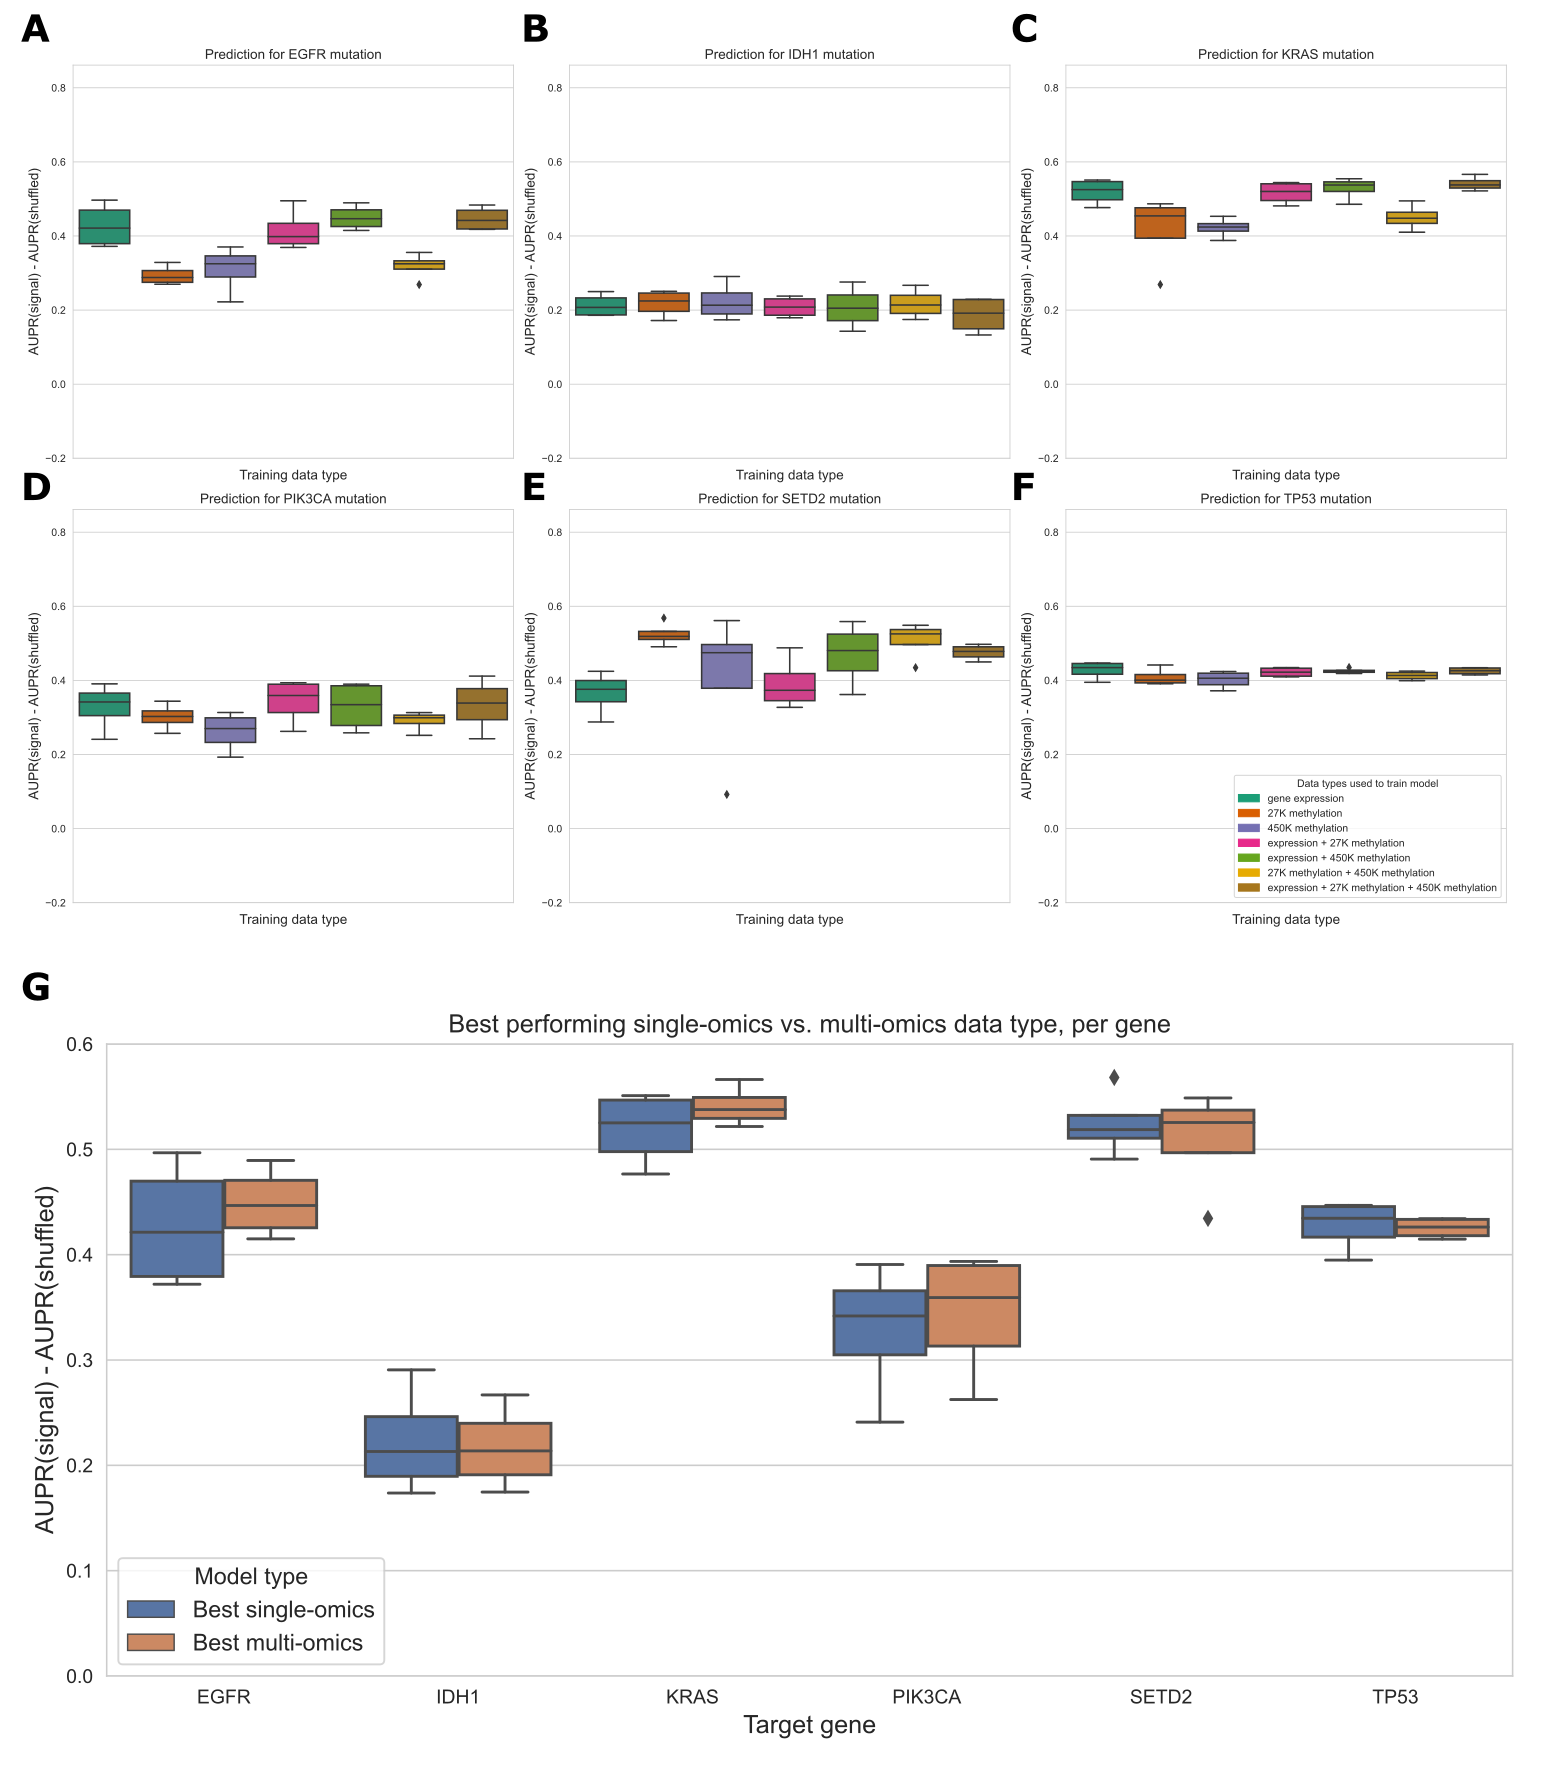
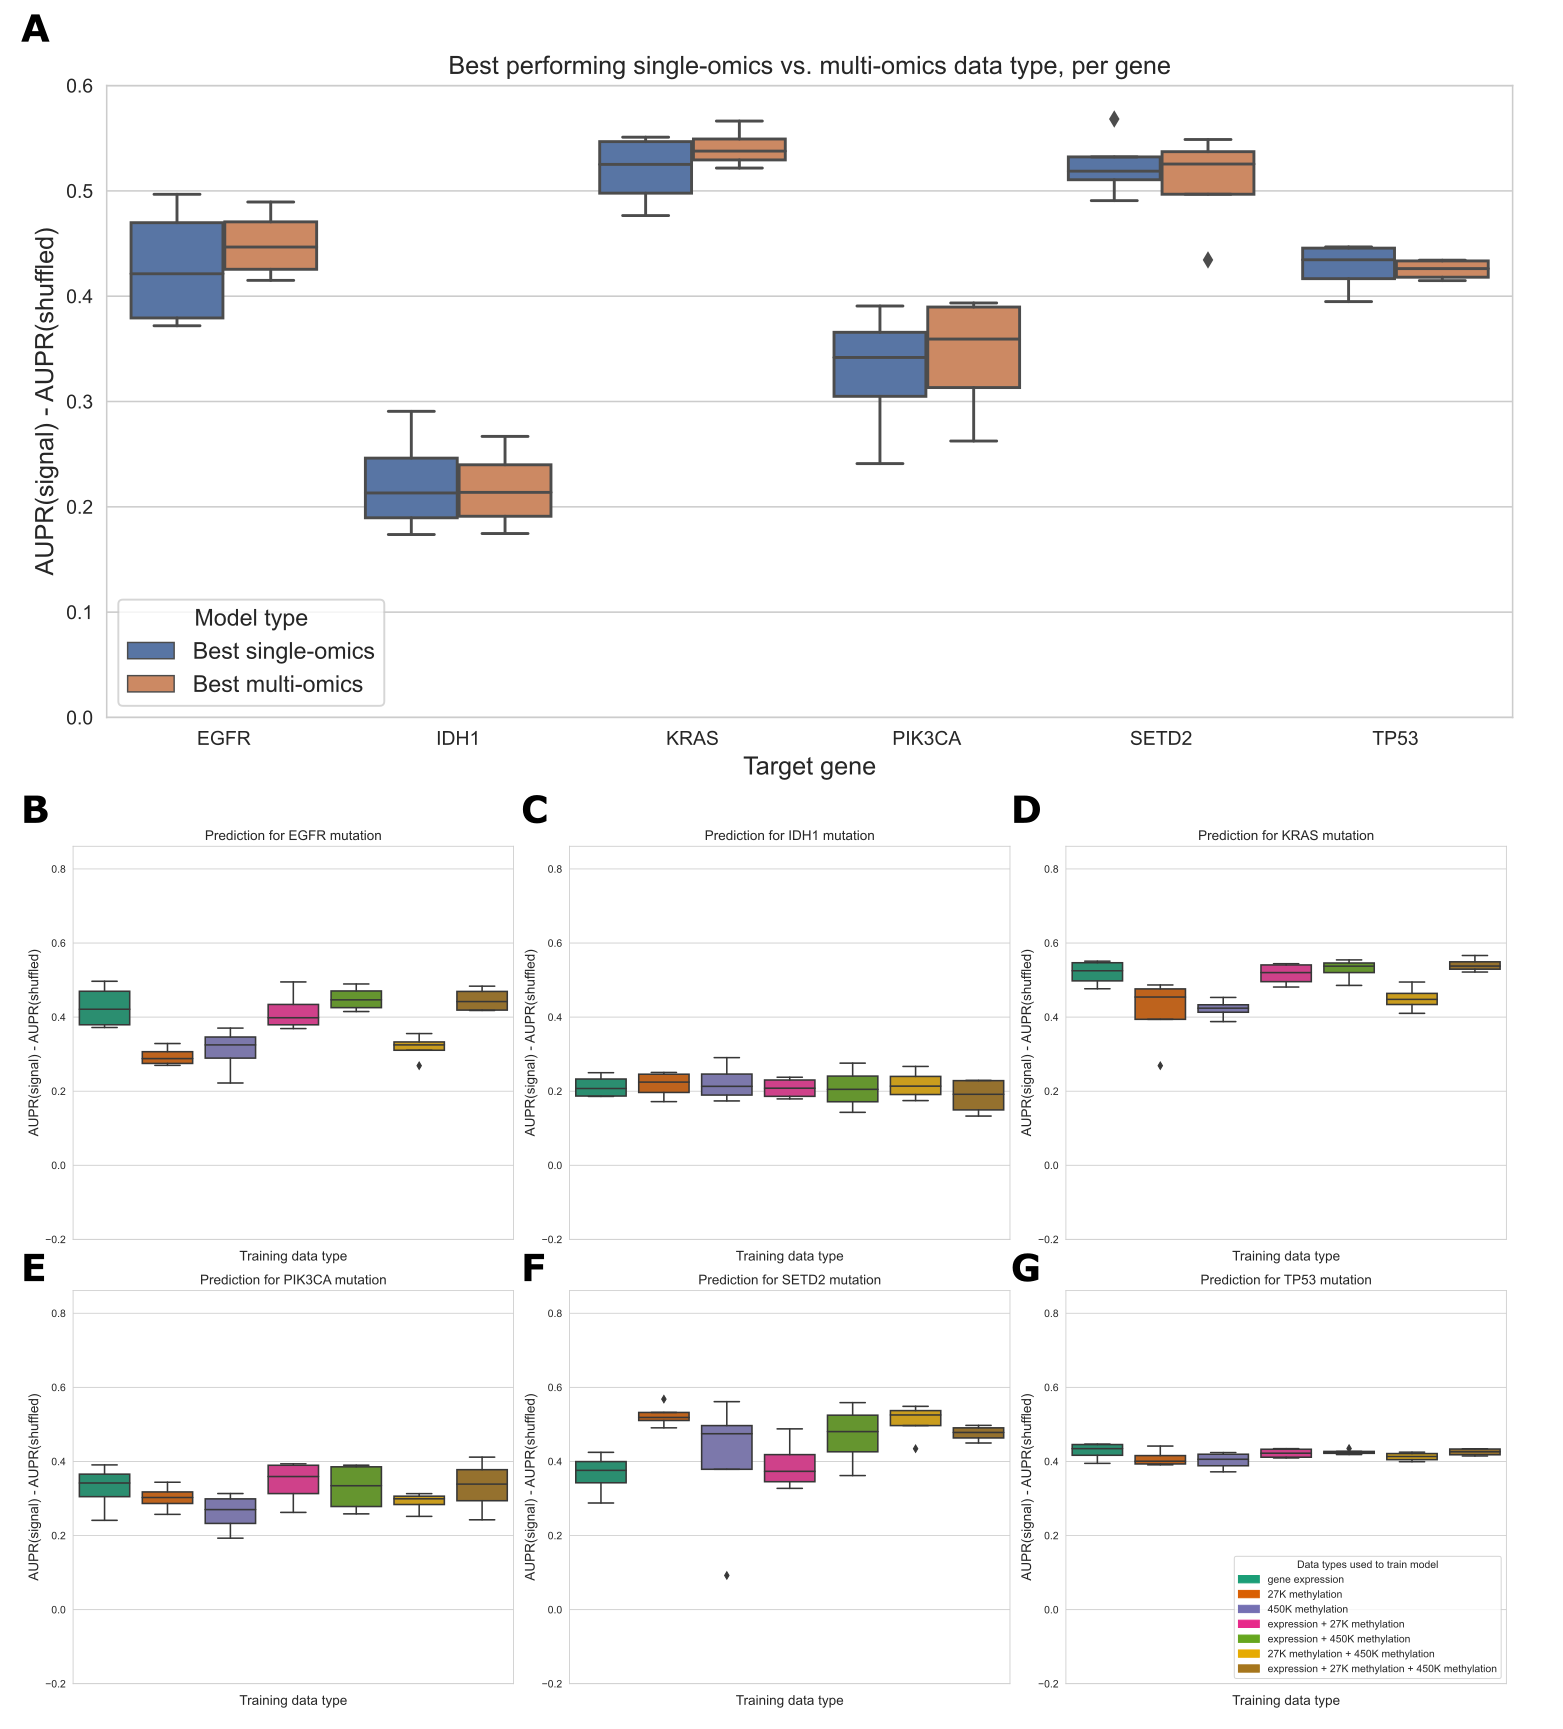
update figure + add multi-omics results

diff --git a/content/04.results.md b/content/04.results.md
@@ -84,8 +84,22 @@ Heatmap displaying predictive performance for mutations in each of the 75 genes 
 
 ### Simple multi-omics baseline provides no performance benefit
 
+We also trained "multi-omics" classifiers to predict mutations in six well-studied and widely mutated driver genes across various cancer types: _EGFR_, _IDH1_, _KRAS_, _PIK3CA_, _SETD2_, and _TP53_.
+Each of these genes is well-predicted from several data types in our earlier experiments (Figure {@fig:heatmap}), consistent with having strong pan-cancer driver effects.
+For the multi-omics classifiers, we considered all pairwise combinations of the top three performing individual data types (gene expression, 27K methylation, and 450K methylation), in addition to a model using all three data types.
+We trained a classifier for multiple data types by concatenating features from the individual data types, then fitting the same elastic net logistic regression model as we used for the single-omics models.
+Here, we show results using the top 5000 principal components from each data type as predictive features, to ensure that feature count and scale is comparable between data types; results for raw features are shown in (supplement).
+
+For each of the six target genes, we observed comparable performance between the best individual classifier (blue boxes in Figure {@fig:multi_omics}A) and the best multi-omics classifier (orange boxes in Figure {@fig:multi_omics}A).
+Across all classifiers and data types, we found varied patterns based on the target gene.
+For _IDH1_ and _TP53_ performance is relatively similar regardless of data type(s), indicating that there is little room for improvement as data is added for these genes (Figure {@fig:multi_omics}C, G).
+For _EGFR_, _KRAS_, and _PIK3CA_, combining gene expression with methylation data seems to result in similar performance to gene expression alone; classifiers trained only on methylation data perform considerably worse (Figure {@fig:multi_omics}B, D, E).
+The best classifiers for _SETD2_ use methylation data alone; results are similar whether 27K methylation or 27K+450K methylation features are used (Figure {@fig:multi_omics}F).
+Overall, we saw that combining data types in a relatively simple way (i.e. by concatenating features from each individual data type) provided little or no improvement in predictive ability over the best individual data type.
+This supports our earlier observations of the redundancy of gene expression and methylation data as functional readouts, since our multi-omics classifiers are not in general able to extract gains in predictive performance from added data types for this set of cancer drivers.
+
 ![
-**A-F.** Classifier performance, relative to baseline with permuted labels, for mutation prediction models trained on various combinations of data types. For each dataset, we used the top 5,000 principal components as predictive features. "Multi-omics" models were formed by concatenating PC features derived from the relevant data types, then fitting the elastic net logistic regression model using the same process as for single-omics models.
-**G.** Comparing the best-performing model trained on a single data type against the best "multi-omics" model for each target gene. None of the differences between single-omics and multi-omics models were statistically significant using paired-sample _t_-tests across cross-validation folds.
+**A-F.** Classifier performance, relative to baseline with permuted labels, for mutation prediction models trained on various combinations of data types. Each panel shows performance for one of the six target genes; box plots show performance distribution over 8 evaluation sets (4 cross-validation folds x 2 replicates).
+**G.** Comparing the best-performing model (i.e. highest mean AUPR relative to permuted baseline) trained on a single data type against the best "multi-omics" model for each target gene. None of the differences between single-omics and multi-omics models were statistically significant using paired-sample _t_-tests across cross-validation folds, for a threshold of 0.05.
 ](images/figure_7.png){#fig:multi_omics width="90%"}
 
